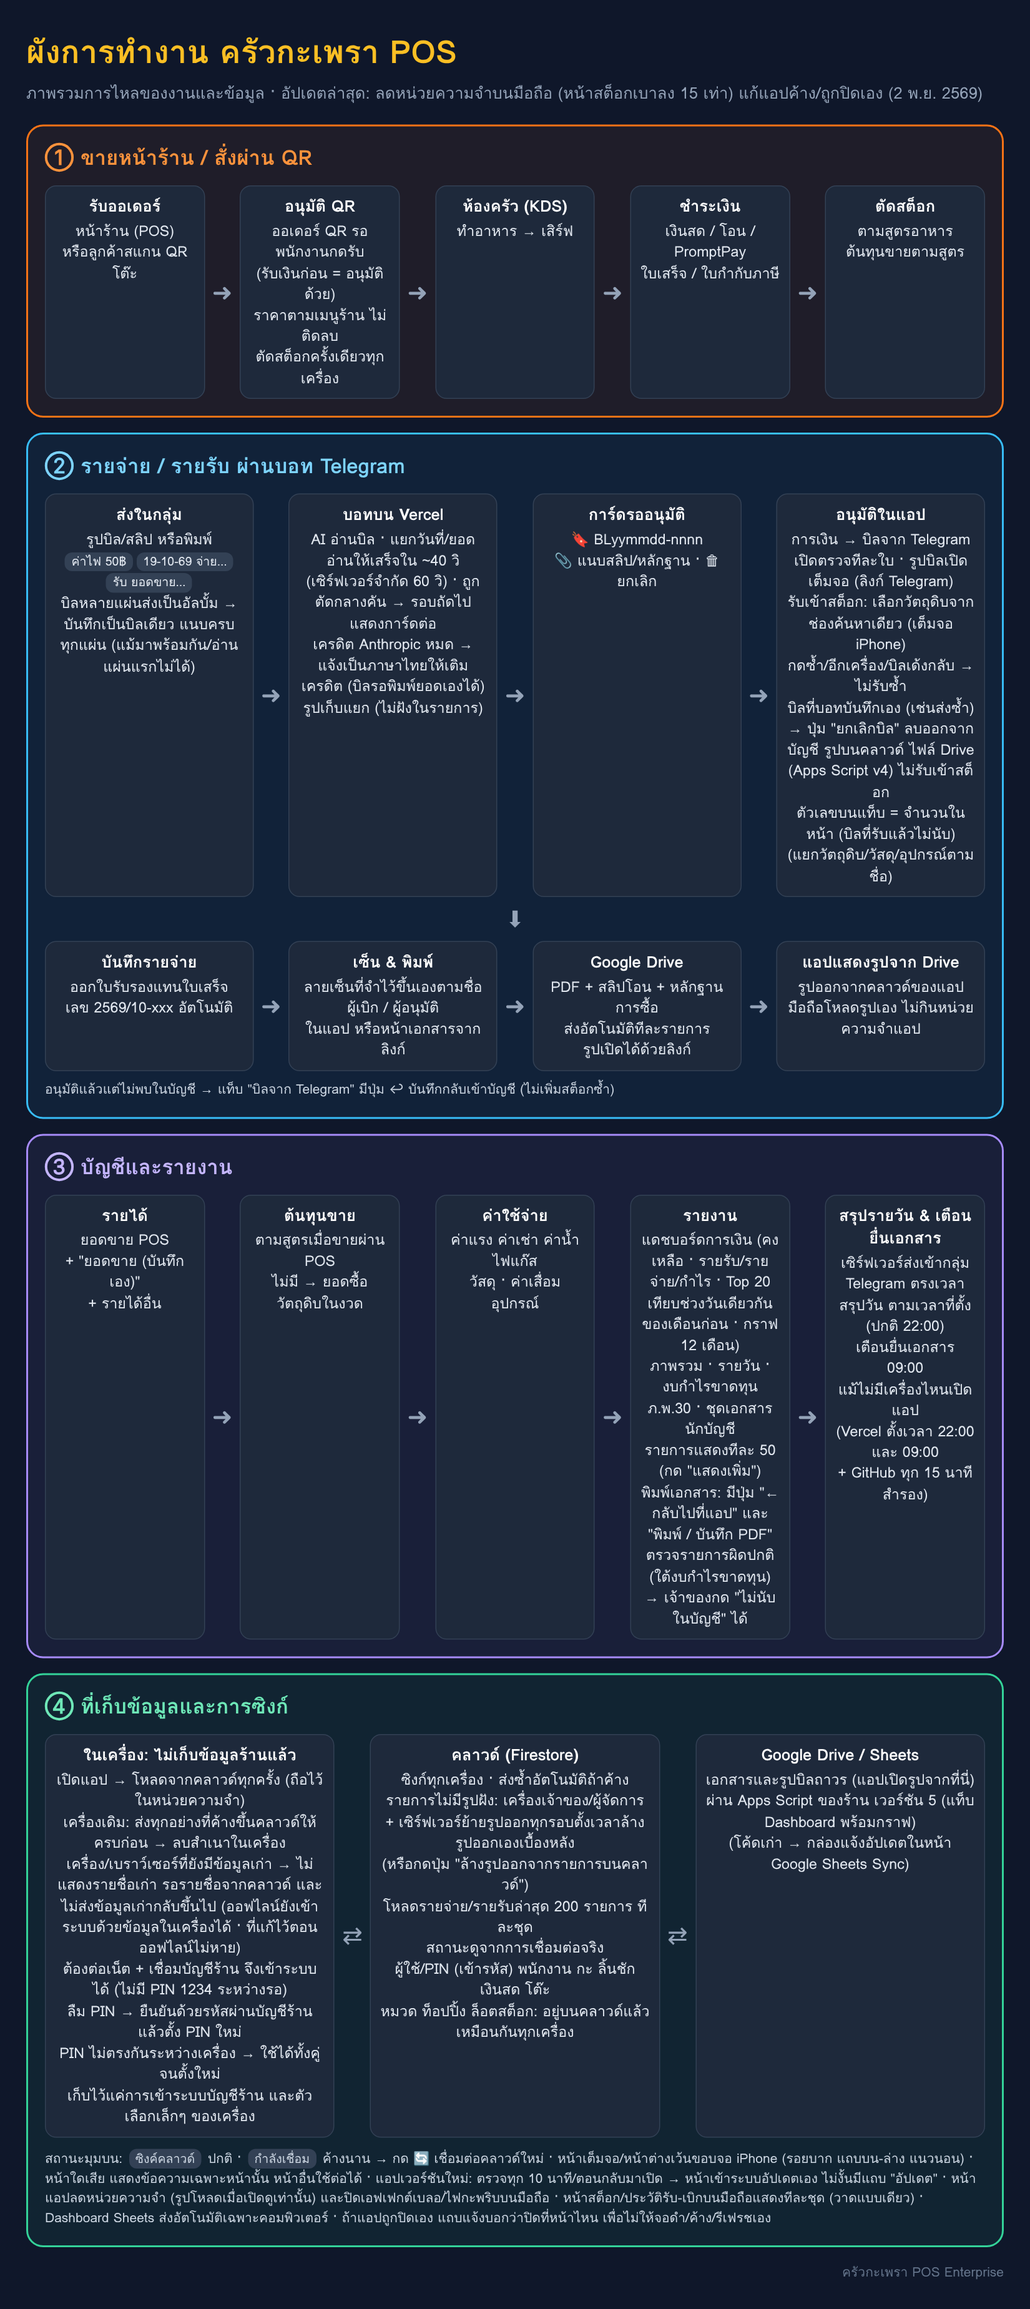
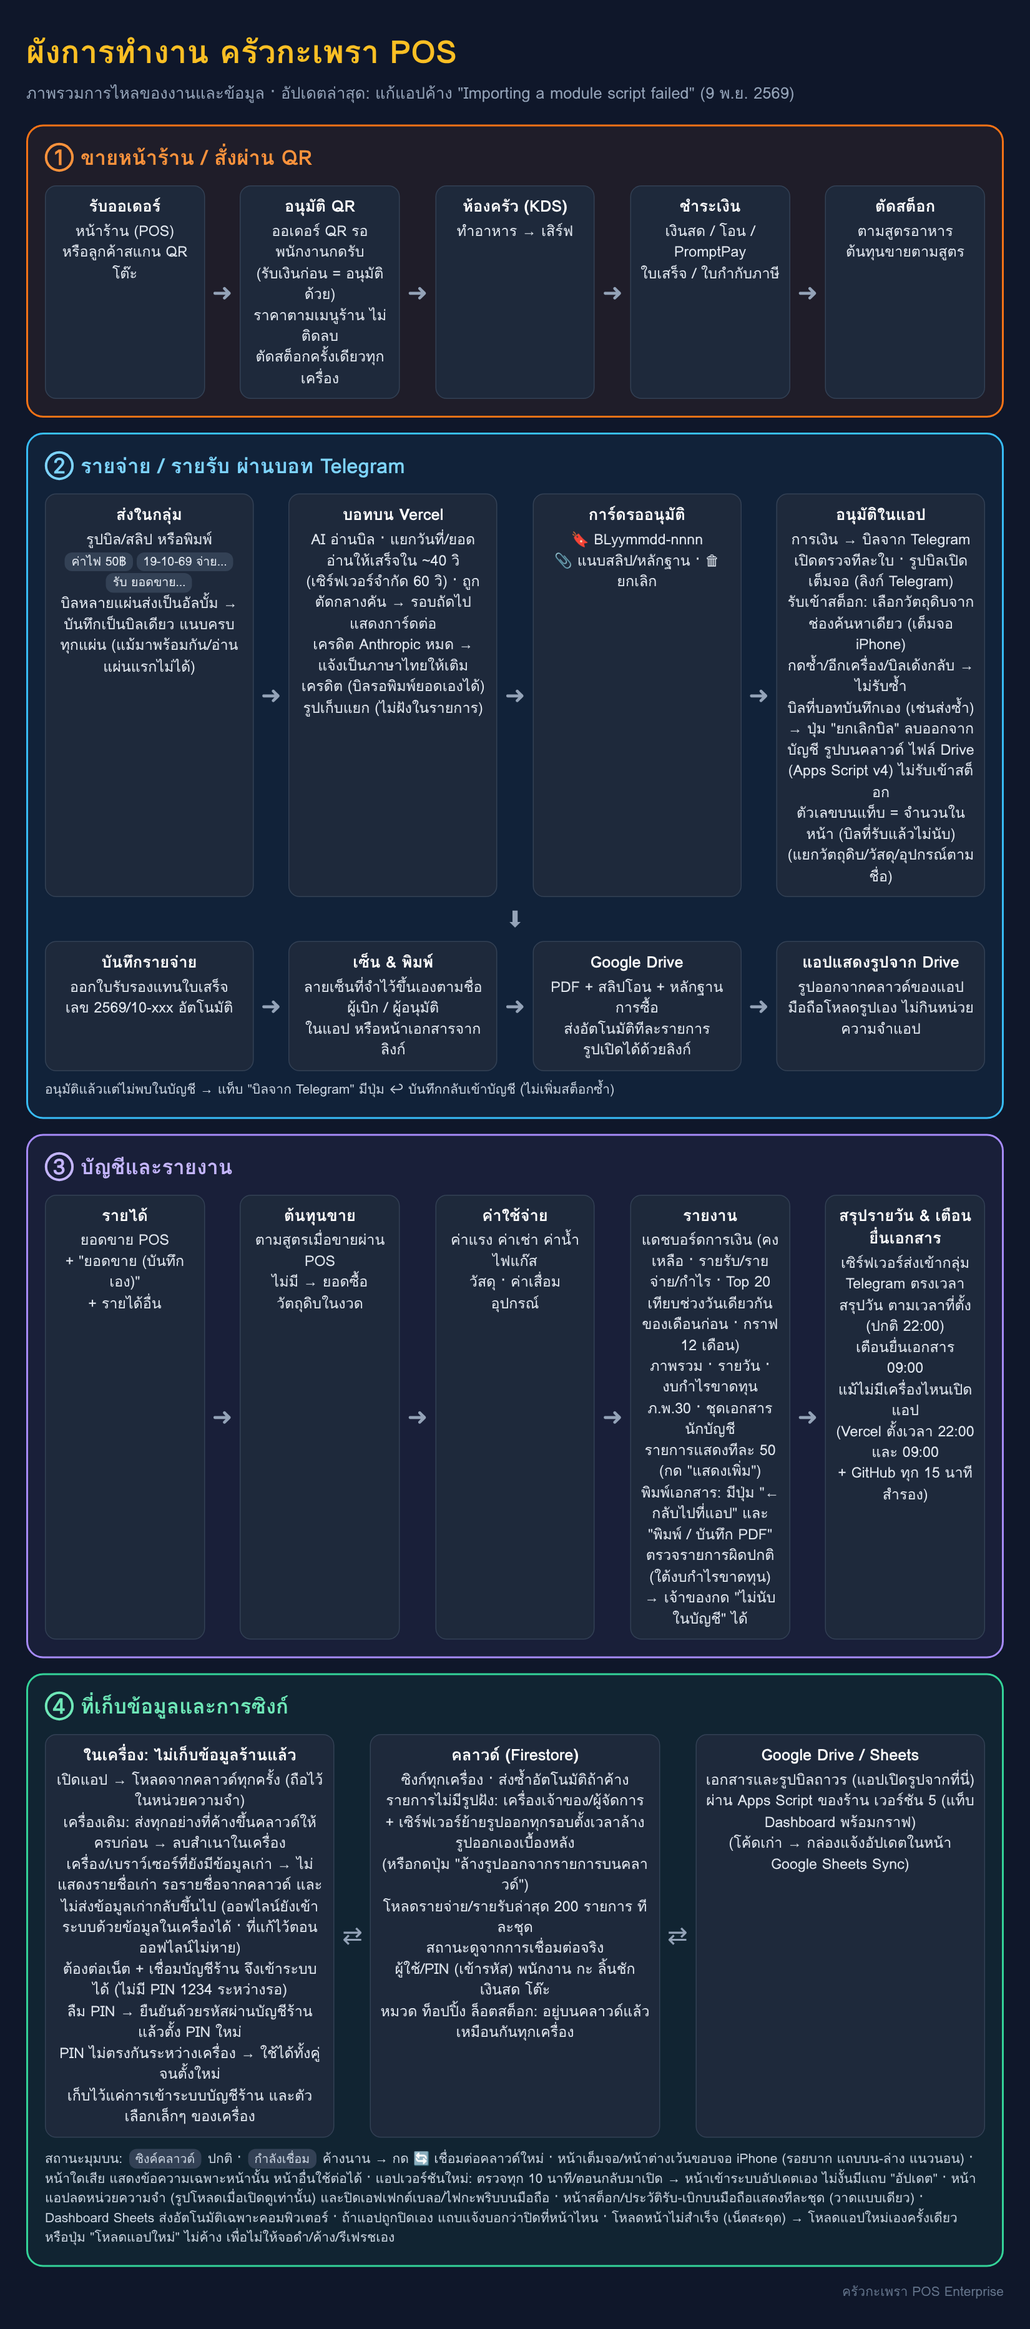
The app no longer sticks on "Importing a module script failed"
Opening a page loads its code the first time. When that request failed for a
moment (weak signal, the app reopened after the phone closed it), React kept
the failed load: the page showed the error and "ลองอีกครั้ง" could never
help, so the app looked stuck until it was closed.

- A page whose code fails to load reloads the app once by itself (at an
  address the browser has not cached), as does a failed preload
  (vite:preloadError); not again within 5 minutes, so it cannot loop. Its
  error box offers "โหลดแอปใหม่" instead of a retry that cannot work.
- The imports are also tried again before giving up.
- The service worker keeps the newest 120 files only, the page under one key
  (it kept every version's files and every ?v= address).

Claude-Session: https://claude.ai/code/session_01Gq3UvYW4wv3hsVCXoh5wxy

diff --git a/docs/workflow/flow.html b/docs/workflow/flow.html
@@ -17,7 +17,7 @@ h1{margin:0 0 4px;font-size:34px;color:#fbbf24}.sub{color:#94a3b8;font-size:17px
 .foot{color:#64748b;font-size:14px;margin-top:6px;text-align:right}
 </style></head><body>
 <h1>ผังการทำงาน ครัวกะเพรา POS</h1>
-<div class="sub">ภาพรวมการไหลของงานและข้อมูล · อัปเดตล่าสุด: ลดหน่วยความจำบนมือถือ (หน้าสต็อกเบาลง 15 เท่า) แก้แอปค้าง/ถูกปิดเอง (2 พ.ย. 2569)</div>
+<div class="sub">ภาพรวมการไหลของงานและข้อมูล · อัปเดตล่าสุด: แก้แอปค้าง "Importing a module script failed" (9 พ.ย. 2569)</div>
 
 <div class="lane pos"><h2>① ขายหน้าร้าน / สั่งผ่าน QR</h2>
 <div class="row">
@@ -60,7 +60,7 @@ h1{margin:0 0 4px;font-size:34px;color:#fbbf24}.sub{color:#94a3b8;font-size:17px
 <div class="box"><b>คลาวด์ (Firestore)</b>ซิงก์ทุกเครื่อง · ส่งซ้ำอัตโนมัติถ้าค้าง<br>รายการไม่มีรูปฝัง: เครื่องเจ้าของ/ผู้จัดการ<br>+ เซิร์ฟเวอร์ย้ายรูปออกทุกรอบตั้งเวลาล้างรูปออกเองเบื้องหลัง<br>(หรือกดปุ่ม "ล้างรูปออกจากรายการบนคลาวด์")<br>โหลดรายจ่าย/รายรับล่าสุด 200 รายการ ทีละชุด<br>สถานะดูจากการเชื่อมต่อจริง<br>ผู้ใช้/PIN (เข้ารหัส) พนักงาน กะ ลิ้นชักเงินสด โต๊ะ<br>หมวด ท็อปปิ้ง ล็อตสต็อก: อยู่บนคลาวด์แล้ว เหมือนกันทุกเครื่อง</div><div class="ar">⇄</div>
 <div class="box"><b>Google Drive / Sheets</b>เอกสารและรูปบิลถาวร (แอปเปิดรูปจากที่นี่)<br>ผ่าน Apps Script ของร้าน เวอร์ชัน 5 (แท็บ Dashboard พร้อมกราฟ)<br>(โค้ดเก่า → กล่องแจ้งอัปเดตในหน้า Google Sheets Sync)</div>
 </div>
-<div class="note">สถานะมุมบน: <span class="tag">ซิงค์คลาวด์</span> ปกติ · <span class="tag">กำลังเชื่อม</span> ค้างนาน → กด 🔄 เชื่อมต่อคลาวด์ใหม่ · หน้าเต็มจอ/หน้าต่างเว้นขอบจอ iPhone (รอยบาก แถบบน-ล่าง แนวนอน) · หน้าใดเสีย แสดงข้อความเฉพาะหน้านั้น หน้าอื่นใช้ต่อได้ · แอปเวอร์ชันใหม่: ตรวจทุก 10 นาที/ตอนกลับมาเปิด → หน้าเข้าระบบอัปเดตเอง ไม่งั้นมีแถบ "อัปเดต" · หน้าแอปลดหน่วยความจำ (รูปโหลดเมื่อเปิดดูเท่านั้น) และปิดเอฟเฟกต์เบลอ/ไฟกะพริบบนมือถือ · หน้าสต็อก/ประวัติรับ-เบิกบนมือถือแสดงทีละชุด (วาดแบบเดียว) · Dashboard Sheets ส่งอัตโนมัติเฉพาะคอมพิวเตอร์ · ถ้าแอปถูกปิดเอง แถบแจ้งบอกว่าปิดที่หน้าไหน เพื่อไม่ให้จอดำ/ค้าง/รีเฟรชเอง</div>
+<div class="note">สถานะมุมบน: <span class="tag">ซิงค์คลาวด์</span> ปกติ · <span class="tag">กำลังเชื่อม</span> ค้างนาน → กด 🔄 เชื่อมต่อคลาวด์ใหม่ · หน้าเต็มจอ/หน้าต่างเว้นขอบจอ iPhone (รอยบาก แถบบน-ล่าง แนวนอน) · หน้าใดเสีย แสดงข้อความเฉพาะหน้านั้น หน้าอื่นใช้ต่อได้ · แอปเวอร์ชันใหม่: ตรวจทุก 10 นาที/ตอนกลับมาเปิด → หน้าเข้าระบบอัปเดตเอง ไม่งั้นมีแถบ "อัปเดต" · หน้าแอปลดหน่วยความจำ (รูปโหลดเมื่อเปิดดูเท่านั้น) และปิดเอฟเฟกต์เบลอ/ไฟกะพริบบนมือถือ · หน้าสต็อก/ประวัติรับ-เบิกบนมือถือแสดงทีละชุด (วาดแบบเดียว) · Dashboard Sheets ส่งอัตโนมัติเฉพาะคอมพิวเตอร์ · ถ้าแอปถูกปิดเอง แถบแจ้งบอกว่าปิดที่หน้าไหน · โหลดหน้าไม่สำเร็จ (เน็ตสะดุด) → โหลดแอปใหม่เองครั้งเดียว หรือปุ่ม "โหลดแอปใหม่" ไม่ค้าง เพื่อไม่ให้จอดำ/ค้าง/รีเฟรชเอง</div>
 </div>
 <div class="foot">ครัวกะเพรา POS Enterprise</div>
 </body></html>

diff --git a/src/components/PageErrorBoundary.tsx b/src/components/PageErrorBoundary.tsx
@@ -1,3 +1,4 @@
+import { isChunkLoadError, reloadApp, reloadForChunks } from '../utils/chunkLoad';
 import React, { ErrorInfo, ReactNode } from 'react';
 import { AlertTriangle, RefreshCw } from 'lucide-react';
 
@@ -14,6 +15,9 @@ export class PageErrorBoundary extends React.Component<{ children?: ReactNode },
 
   componentDidCatch(error: Error, info: ErrorInfo) {
     console.error('Page error:', error, info.componentStack);
+    // The page's code did not load (still failing after the retries): the app is loaded again once
+    // by itself, since a failed page load is kept until the app reloads
+    if (isChunkLoadError(error)) reloadForChunks();
   }
 
   render() {
@@ -24,10 +28,21 @@ export class PageErrorBoundary extends React.Component<{ children?: ReactNode },
           <AlertTriangle className="w-8 h-8 text-rose-400 mx-auto" />
           <div className="font-bold">หน้านี้แสดงผลไม่ได้</div>
           <div className="text-xs text-slate-400 break-words">{this.state.error.message}</div>
-          <div className="text-xs text-slate-400">ข้อมูลไม่หาย เลือกหน้าอื่นจากเมนูได้ตามปกติ</div>
-          <button type="button" onClick={() => this.setState({ error: null })} className="h-10 px-4 rounded-xl bg-slate-800 border border-slate-700 font-bold inline-flex items-center gap-2">
-            <RefreshCw className="w-4 h-4" /> ลองอีกครั้ง
-          </button>
+          {isChunkLoadError(this.state.error) ? (
+            <>
+              <div className="text-xs text-slate-400">โหลดหน้านี้ไม่สำเร็จ (สัญญาณเน็ตสะดุด) ข้อมูลไม่หาย กดโหลดแอปใหม่</div>
+              <button type="button" onClick={reloadApp} className="h-10 px-4 rounded-xl bg-slate-800 border border-slate-700 font-bold inline-flex items-center gap-2">
+                <RefreshCw className="w-4 h-4" /> โหลดแอปใหม่
+              </button>
+            </>
+          ) : (
+            <>
+              <div className="text-xs text-slate-400">ข้อมูลไม่หาย เลือกหน้าอื่นจากเมนูได้ตามปกติ</div>
+              <button type="button" onClick={() => this.setState({ error: null })} className="h-10 px-4 rounded-xl bg-slate-800 border border-slate-700 font-bold inline-flex items-center gap-2">
+                <RefreshCw className="w-4 h-4" /> ลองอีกครั้ง
+              </button>
+            </>
+          )}
         </div>
       </div>
     );

diff --git a/src/utils/chunkLoad.ts b/src/utils/chunkLoad.ts
@@ -1,0 +1,53 @@
+/**
+ * Pages are loaded the first time they are opened. On a phone the request can fail for a moment
+ * (a weak 5G signal, the app reopened after the phone closed it): the import is tried again (some
+ * browsers keep the failed load, so this alone may not help). React keeps a failed page load for
+ * good, so when it still fails the app is reloaded once, which loads the page afresh (and picks up
+ * a newer version whose files replaced the old ones).
+ */
+const RELOAD_KEY = 'POS_CHUNK_RELOADED';
+
+/** A page's code could not be loaded (not a fault in the page itself) */
+export const isChunkLoadError = (err: unknown): boolean =>
+  /Importing a module script failed|Failed to fetch dynamically imported module|error loading dynamically imported module|Unable to preload CSS|Loading chunk \S+ failed|Loading CSS chunk/i.test(
+    String((err as { message?: string } | null)?.message || err || '')
+  );
+
+const wait = (ms: number) => new Promise(r => setTimeout(r, ms));
+
+/** The import, tried again after 1 s and 3 s when it fails to load */
+export async function importWithRetry<T>(load: () => Promise<T>, delays = [1000, 3000]): Promise<T> {
+  let last: unknown;
+  for (let i = 0; i <= delays.length; i++) {
+    try {
+      return await load();
+    } catch (err) {
+      last = err;
+      if (!isChunkLoadError(err) || i === delays.length) break;
+      await wait(delays[i]);
+    }
+  }
+  throw last;
+}
+
+/** Reload the app at an address the browser has not cached (false: reloaded for this a moment ago) */
+export function reloadForChunks(): boolean {
+  try {
+    // Not again within 5 minutes (a reload that did not help would otherwise loop)
+    if (Date.now() - Number(sessionStorage.getItem(RELOAD_KEY) || 0) < 5 * 60_000) return false;
+    sessionStorage.setItem(RELOAD_KEY, String(Date.now()));
+  } catch {
+    return false;
+  }
+  const url = new URL(window.location.href);
+  url.searchParams.set('v', String(Date.now()));
+  window.location.replace(url.toString());
+  return true;
+}
+
+/** A reload the person asked for (the button), whatever happened before */
+export function reloadApp(): void {
+  const url = new URL(window.location.href);
+  url.searchParams.set('v', String(Date.now()));
+  window.location.replace(url.toString());
+}

diff --git a/src/main.tsx b/src/main.tsx
@@ -2,6 +2,7 @@ import { StrictMode, lazy, Suspense } from 'react';
 import { createRoot } from 'react-dom/client';
 import { ErrorBoundary } from './components/ErrorBoundary.tsx';
 import { readTableFromUrl } from './components/customer/tableLink.ts';
+import { importWithRetry, reloadForChunks } from './utils/chunkLoad.ts';
 import './index.css';
 
 // A table QR code (?table=5&b=<branch>) opens the customer ordering page: no login, no staff
@@ -11,15 +12,21 @@ const tableLink = readTableFromUrl(window.location.search);
 const docCode = window.location.hash.startsWith('#doc=') ? window.location.hash.slice(5) : '';
 // The staff app's local data is read from the browser's database before the app starts
 // (after the phone closed the app, it opens lighter: see utils/bootGuard)
+// Code that fails to load for a moment (weak signal) is tried again (see utils/chunkLoad)
 const App = lazy(() =>
-  import('./utils/bootGuard.ts')
+  importWithRetry(() => import('./utils/bootGuard.ts'))
     .then(m => m.bootGuard())
-    .then(() => import('./utils/bigStore.ts'))
+    .then(() => importWithRetry(() => import('./utils/bigStore.ts')))
     .then(m => m.hydrateBigStore())
-    .then(() => import('./App.tsx'))
+    .then(() => importWithRetry(() => import('./App.tsx')))
 );
-const DocLinkPage = lazy(() => import('./components/docs/DocLinkPage.tsx').then(m => ({ default: m.DocLinkPage })));
-const CustomerOrderPage = lazy(() => import('./components/customer/CustomerOrderPage.tsx'));
+const DocLinkPage = lazy(() => importWithRetry(() => import('./components/docs/DocLinkPage.tsx')).then(m => ({ default: m.DocLinkPage })));
+const CustomerOrderPage = lazy(() => importWithRetry(() => import('./components/customer/CustomerOrderPage.tsx')));
+
+// A file preloaded for a page could not be loaded (e.g. replaced by a newer version): reload once
+window.addEventListener('vite:preloadError', event => {
+  if (reloadForChunks()) event.preventDefault();
+});
 
 createRoot(document.getElementById('root')!).render(
   <StrictMode>

diff --git a/public/sw.js b/public/sw.js
@@ -1,5 +1,7 @@
 // Bump when static assets change so phones drop the old (broken) logo from the cache
-const CACHE_NAME = 'kaprao-pos-v4';
+const CACHE_NAME = 'kaprao-pos-v5';
+// The cache keeps the app's newest files only (it used to keep every version's, without end)
+const MAX_ENTRIES = 120;
 const ASSETS_TO_CACHE = [
   './',
   './index.html',
@@ -87,15 +89,21 @@ self.addEventListener('fetch', (event) => {
           networkResponse.type === 'basic'
         ) {
           const responseToCache = networkResponse.clone();
-          caches.open(CACHE_NAME).then((cache) => {
-            cache.put(event.request, responseToCache);
+          // The page under one key (it is opened as ./, ./?v=… and so on)
+          const isPage = event.request.mode === 'navigate' || url.pathname.endsWith('/index.html');
+          const key = isPage ? './index.html' : event.request;
+          caches.open(CACHE_NAME).then(async (cache) => {
+            await cache.put(key, responseToCache);
+            const keys = await cache.keys();
+            // Oldest first: the files of versions long gone go
+            for (const old of keys.slice(0, Math.max(0, keys.length - MAX_ENTRIES))) await cache.delete(old);
           });
         }
         return networkResponse;
       })
       .catch(() => {
         // Network failed - load from cache
-        return caches.match(event.request).then((cachedResponse) => {
+        return caches.match(event.request, { ignoreSearch: event.request.mode === 'navigate' }).then((cachedResponse) => {
           if (cachedResponse) {
             return cachedResponse;
           }

diff --git a/src/utils/__tests__/chunkLoad.test.ts b/src/utils/__tests__/chunkLoad.test.ts
@@ -1,0 +1,29 @@
+import { describe, expect, it } from 'vitest';
+import { importWithRetry, isChunkLoadError } from '../chunkLoad';
+
+describe('loading a page whose code fails for a moment', () => {
+  it('knows a failed code load from a fault in the page', () => {
+    expect(isChunkLoadError(new TypeError('Importing a module script failed.'))).toBe(true);
+    expect(isChunkLoadError(new TypeError('Failed to fetch dynamically imported module: https://x/assets/a.js'))).toBe(true);
+    expect(isChunkLoadError(new Error("Cannot read properties of undefined (reading 'map')"))).toBe(false);
+  });
+
+  it('tries the import again, and gives up on a fault that is not a load', async () => {
+    let tries = 0;
+    const page = await importWithRetry(async () => {
+      if (++tries < 3) throw new TypeError('Importing a module script failed.');
+      return { ok: true };
+    }, [1, 1]);
+    expect(page).toEqual({ ok: true });
+    expect(tries).toBe(3);
+
+    let other = 0;
+    await expect(
+      importWithRetry(async () => {
+        other++;
+        throw new Error('broken page');
+      }, [1, 1])
+    ).rejects.toThrow('broken page');
+    expect(other).toBe(1);
+  });
+});

diff --git a/src/App.tsx b/src/App.tsx
@@ -4,9 +4,11 @@ import { HeaderNavbar } from './components/HeaderNavbar';
 import { SidebarDrawer } from './components/SidebarDrawer';
 import { LoginScreen } from './components/LoginScreen';
 import { POSView } from './components/pos/POSView';
+import { importWithRetry } from './utils/chunkLoad';
 // Heavy views are code-split so the POS screen loads fast on tablets; each chunk is fetched on first use
+// (a page whose code fails to load for a moment is tried again: utils/chunkLoad)
 const lazyNamed = <T extends Record<string, any>>(loader: () => Promise<T>, name: keyof T) =>
-  React.lazy(() => loader().then(m => ({ default: m[name] as React.ComponentType })));
+  React.lazy(() => importWithRetry(loader).then(m => ({ default: m[name] as React.ComponentType })));
 
 const KDSView = lazyNamed(() => import('./components/kds/KDSView'), 'KDSView');
 const InventoryView = lazyNamed(() => import('./components/inventory/InventoryView'), 'InventoryView');

diff --git a/src/components/ErrorBoundary.tsx b/src/components/ErrorBoundary.tsx
@@ -1,5 +1,6 @@
 import React, { ErrorInfo, ReactNode } from 'react';
 import { clearBigStore } from '../utils/bigStore';
+import { isChunkLoadError, reloadApp, reloadForChunks } from '../utils/chunkLoad';
 import { AlertTriangle, RefreshCw, Trash2 } from 'lucide-react';
 
 interface Props {
@@ -29,10 +30,13 @@ export class ErrorBoundary extends React.Component<Props, State> {
   public componentDidCatch(error: Error, errorInfo: ErrorInfo) {
     console.error('Uncaught React Error:', error, errorInfo);
     this.setState({ errorInfo });
+    // The app's code did not load (weak signal): loaded again once by itself
+    if (isChunkLoadError(error)) reloadForChunks();
   }
 
   private handleReload = () => {
-    window.location.reload();
+    // At an address the browser has not cached (a newer version's files replace the old ones)
+    reloadApp();
   };
 
   private handleClearCacheAndReload = async () => {
